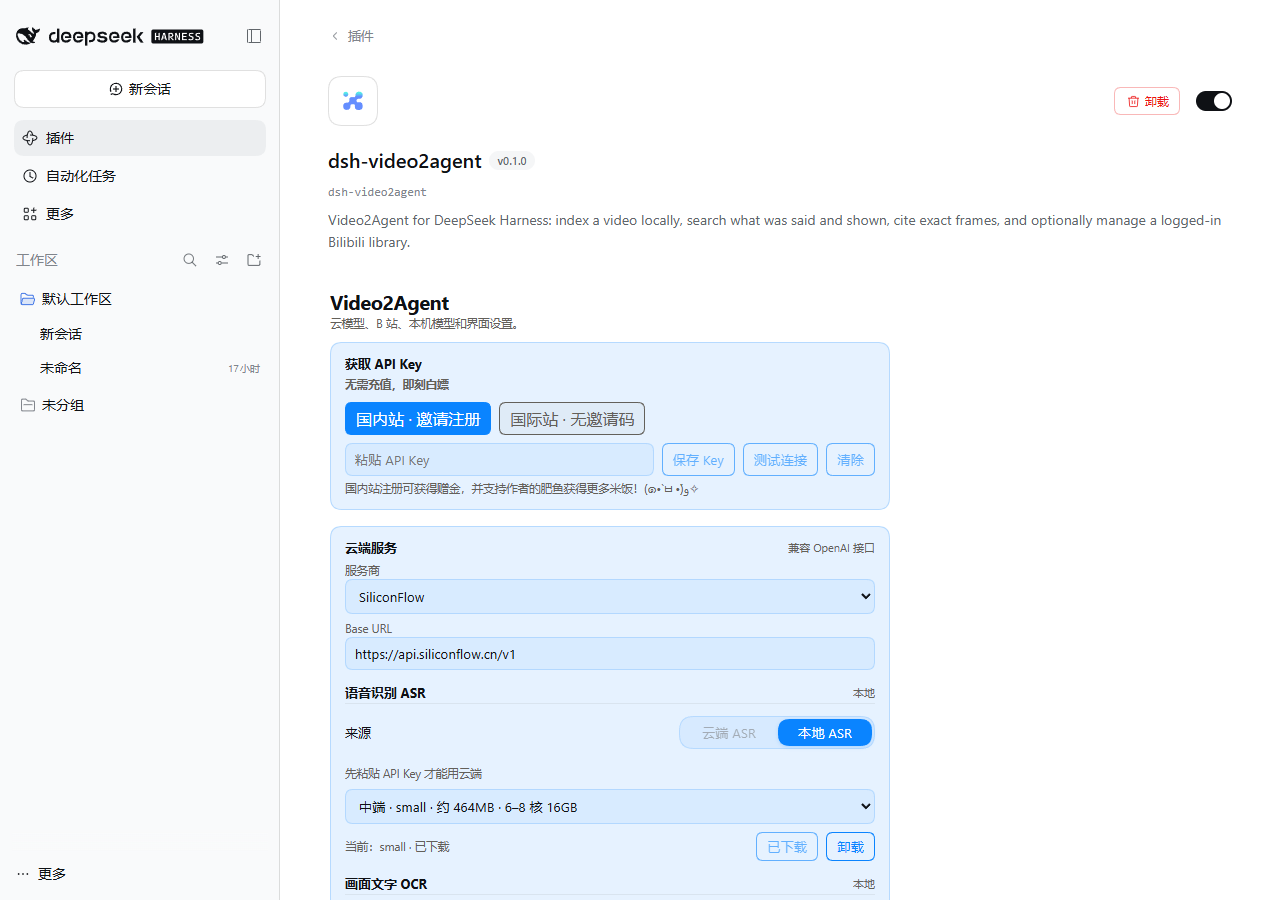
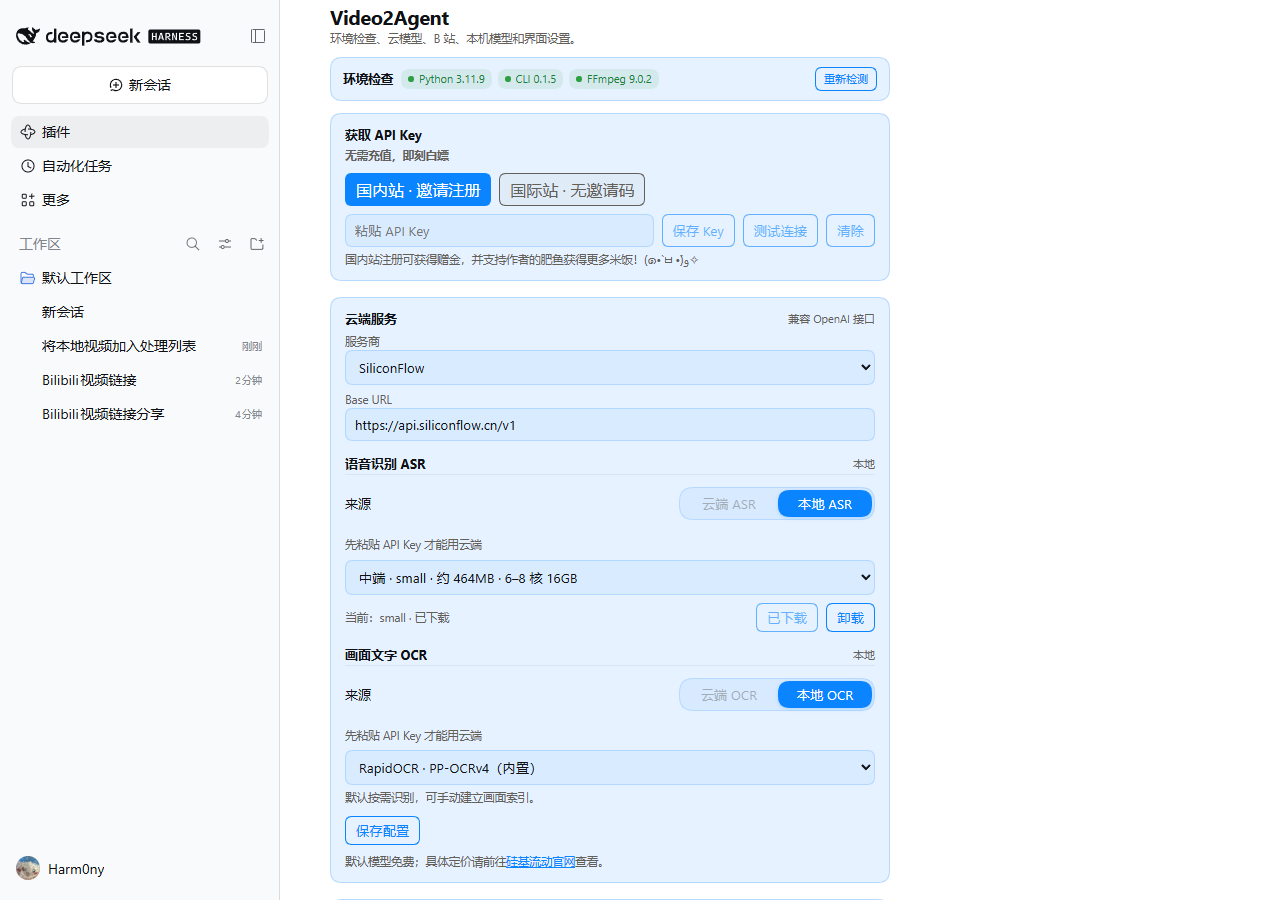
release: 0.1.6 (new hero storefront, re-shot README screenshots, marketplace copy)

diff --git a/src/video2agent/__init__.py b/src/video2agent/__init__.py
@@ -1,3 +1,3 @@
 """Video2Agent: video search and understanding for AI agents."""
 
-__version__ = "0.1.5"
+__version__ = "0.1.6"

diff --git a/packages/dsh-video2agent/README.md b/packages/dsh-video2agent/README.md
@@ -1,12 +1,24 @@
 # dsh-video2agent
 
-**Video search and understanding for DSH.** One library for local files and Bilibili links:
-cross-video search with video + timecode, exact-frame evidence, and 1–10 video batch analysis.
-Local-first; cloud ASR/OCR is optional.
+<h3 align="center">你的 Agent 浏览了无数网页<br>现在该让它看视频了</h3>
+
+<p align="center"><b>Video2Agent 让 AI Agent 看懂视频、直接回答。</b><br>
+B 站和本地视频都能问：讲了什么、哪条更好、值不值得看。</p>
 
 <p align="center">
-  <img src="assets/screenshot-1.png" alt="Video2Agent in the DSH composer" width="860">
+  <img src="https://raw.githubusercontent.com/Harm0ny-AI/DSH-Video2Agent/main/packages/dsh-video2agent/assets/screenshot-1.png" alt="Video2Agent in the DSH composer" width="860">
 </p>
+
+Video search and understanding for DSH. One library for local files and Bilibili links:
+cross-video search with video + timecode, exact-frame evidence, and 1–10 video batch
+analysis. Local-first; cloud ASR/OCR and Bilibili login are optional.
+
+## What you can ask
+
+- 「这期视频讲了什么？」→ 概要 + 时间码，想核对就点回原片；
+- 「这几个速通视频哪条讲得更好/更全？」→ 1–10 个视频批量读完后对比共识与分歧；
+- 「这个视频值不值得看？」→ 用转写、画面上的字（OCR）和关键帧回答，不靠标题；
+- 「第 12 分钟那张表写了什么？」→ 按时间码取帧，配同一帧上的文字作证据。
 
 ## Install
 
@@ -20,31 +32,29 @@ video2agent doctor               # checks Python, FFmpeg and the Python packages
 dsh plugin --profile web add dsh-video2agent   # npm
 ```
 
-Requires Python 3.11+ and FFmpeg (or let the plugin install them: after installing,
-open the plugin settings page — **环境检查** checks Python/CLI/FFmpeg and installs
-what is missing with one click). Any DSH 0.2.1 / 0.2.2 profile works; the host command
-is optional, so headless/TUI profiles still get the tool and `/video`.
+Requires Python 3.11+ and FFmpeg. The plugin settings page has a one-click
+**环境检查** (Python / CLI / FFmpeg) that reports what is missing and installs it
+(CLI via pip, FFmpeg via winget/brew). Any DSH 0.2.1 / 0.2.2 profile works; the host
+command is optional, so headless/TUI profiles still get the tool and `/video`.
 
 - PyPI: <https://pypi.org/project/video2agent/>
 - npm: <https://www.npmjs.com/package/dsh-video2agent>
 - Releases: <https://github.com/Harm0ny-AI/DSH-Video2Agent/releases>
 
+## Screenshots
+
+| 识别视频链接 | 批量处理 | 设置页 · 环境检查 |
+|---|---|---|
+| ![Composer preview](https://raw.githubusercontent.com/Harm0ny-AI/DSH-Video2Agent/main/packages/dsh-video2agent/assets/screenshot-1.png) | ![Batch table](https://raw.githubusercontent.com/Harm0ny-AI/DSH-Video2Agent/main/packages/dsh-video2agent/assets/screenshot-2.png) | ![Settings and environment check](https://raw.githubusercontent.com/Harm0ny-AI/DSH-Video2Agent/main/packages/dsh-video2agent/assets/screenshot-3.png) |
+
 ## What it adds
 
 - `video2agent` tool and `/video` command.
 - Composer preview for `bilibili.com/video/BV…`, `av` numbers, `b23.tv` links and bare BV ids.
-- A session-scoped selected-video table above the composer: cover, title, uploader, duration, one plain-language stage and stop.
-- **Search across videos** (`search` covers the library by default), **batch analysis** of 1–10 videos, and **evidence** frames with transcript/OCR from the same moment.
+- A session-scoped selected-video table above the composer: cover, title, one plain-language status and stop.
+- **Search across videos** (the default scope), **batch analysis** of 1–10 videos, and **evidence** frames with transcript/OCR from the same moment.
 - Optional Bilibili QR login for discovery, favorites/history/folders and CC/AI subtitles. The DSH account tool is read-only; folder writes are CLI-only with `--confirm`.
-- Local ASR/OCR runs on this machine; evidence frames/text go to the host model (a cloud host model sees them). Cloud ASR/OCR is opt-in per section and uses the provider key you configure.
-
-## Screenshots
-
-| Composer preview | Batch table | Settings |
-|---|---|---|
-| ![Preview](assets/screenshot-1.png) | ![Batch table](assets/screenshot-2.png) | ![Settings](assets/screenshot-3.png) |
-
-More: [completed batch table](assets/screenshot-4.png) · [live ingest card](assets/screenshot-5.png).
+- Local ASR/OCR runs on this machine; only the frames/text you ask for reach the host model. Cloud ASR/OCR is opt-in per section and uses the provider key you configure.
 
 ## Manifest
 

diff --git a/README.en.md b/README.en.md
@@ -183,7 +183,7 @@ The dark social card and marketplace card live in [`docs/assets/`](docs/assets).
 
 ## Status
 
-- **0.1.5 released (2026-11-16).** CLI, Skill and the DSH plugin are available; install from PyPI or npm. 0.1.3 compacts the settings-page environment check into one status row (install buttons only for what is missing), makes `perceive` and `video2agent doctor` honour `FFMPEG_BIN`/`FFPROBE_BIN` like the media paths, and ships the real install steps on the plugin page. 0.1.2 added the environment check with one-click installs; 0.1.1 fixed reading to the end (no more E_OUT_OF_RANGE), bare millisecond values, Chinese audio mis-detected as Japanese, a misplaced batch progress ring, and an over-long single wait.
+- **0.1.6 released (2026-11-16).** CLI, Skill and the DSH plugin are available; install from PyPI or npm. 0.1.3 compacts the settings-page environment check into one status row (install buttons only for what is missing), makes `perceive` and `video2agent doctor` honour `FFMPEG_BIN`/`FFPROBE_BIN` like the media paths, and ships the real install steps on the plugin page. 0.1.2 added the environment check with one-click installs; 0.1.1 fixed reading to the end (no more E_OUT_OF_RANGE), bare millisecond values, Chinese audio mis-detected as Japanese, a misplaced batch progress ring, and an over-long single wait.
 - Local-first by default; no GPU required. Cloud is optional.
 - Published on PyPI and npm (`pip install video2agent`, `npm i dsh-video2agent`); the marketplace entry is prepared in the awesome-list format.
 - Known limits: single-character CJK search, OCR on tiny/low-contrast text, counting across shots.

diff --git a/README.md b/README.md
@@ -166,7 +166,7 @@ sequenceDiagram
 
 ## 状态
 
-- **0.1.5 已发布（2026-11-16）。** CLI、Skill 和 DSH 插件均可用，从 PyPI 或 npm 安装；0.1.3 把设置页「环境检查」收成一行状态胶囊（缺依赖时才展开安装按钮），修复 `perceive`/`video2agent doctor` 不认 `FFMPEG_BIN`/`FFPROBE_BIN` 的问题，并更新插件页安装说明；0.1.2 加入了「环境检查 + 一键安装」，0.1.1 修了「读到结尾被报错」「毫秒参数被当成秒」「中文被识别成日语」「进度环标错行」和「单次等待过长被杀」。`
+- **0.1.6 已发布（2026-11-16）。** CLI、Skill 和 DSH 插件均可用，从 PyPI 或 npm 安装；0.1.3 把设置页「环境检查」收成一行状态胶囊（缺依赖时才展开安装按钮），修复 `perceive`/`video2agent doctor` 不认 `FFMPEG_BIN`/`FFPROBE_BIN` 的问题，并更新插件页安装说明；0.1.2 加入了「环境检查 + 一键安装」，0.1.1 修了「读到结尾被报错」「毫秒参数被当成秒」「中文被识别成日语」「进度环标错行」和「单次等待过长被杀」。`
 - 默认在本地跑，不需要 GPU；云端可选。
 - 已发布到 PyPI 和 npm：`pip install video2agent`、`npm i dsh-video2agent`；插件市场条目已按 awesome 列表格式准备好。
 - 已知限制：单字中文搜索、小字/低对比度文字的 OCR、跨镜头计数。

diff --git a/CHANGELOG.md b/CHANGELOG.md
@@ -1,5 +1,19 @@
 # Changelog
 
+## 0.1.6 (2026-11-16)
+
+- **New storefront.** The marketplace/social card now uses the hero art and the
+  "你的 Agent 浏览了无数网页 —— 现在该让它看视频了" copy; the README screenshots were
+  re-captured on the current build (composer preview, batch table, and the settings
+  page with the 环境检查 card). README images now use absolute raw URLs so the
+  marketplace detail page can render them.
+- **Marketplace entry copy** is the same hook plus what the plugin actually does:
+  cross-video search with video + timecode, exact-frame evidence, 1–10 video batch
+  analysis, local-first with optional cloud ASR/OCR and Bilibili login, and the
+  Python 3.11+/FFmpeg prereqs the settings page can install.
+- Package README restructured: what you can ask, install (PyPI + npm), screenshots,
+  manifest.
+
 ## 0.1.5 (2026-11-16)
 
 - **An explicit `VIDEO2AGENT_PYTHON` is now a pin.** When set, the setup card uses
